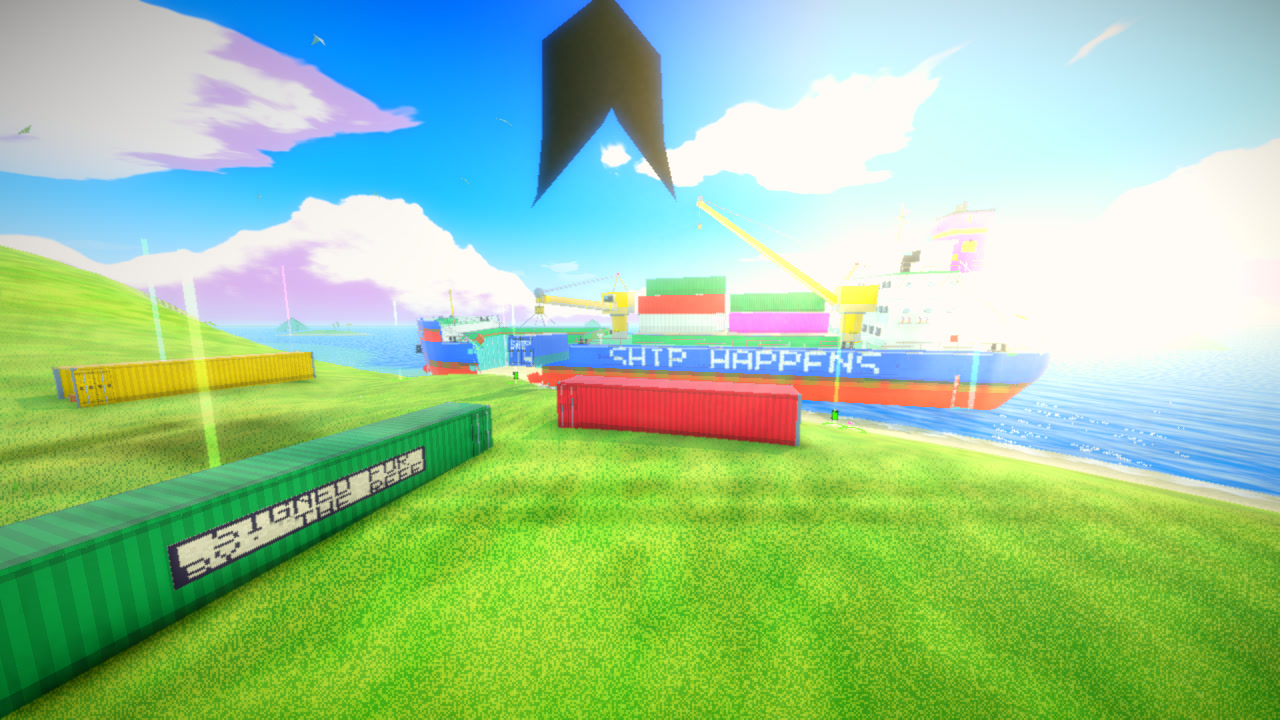
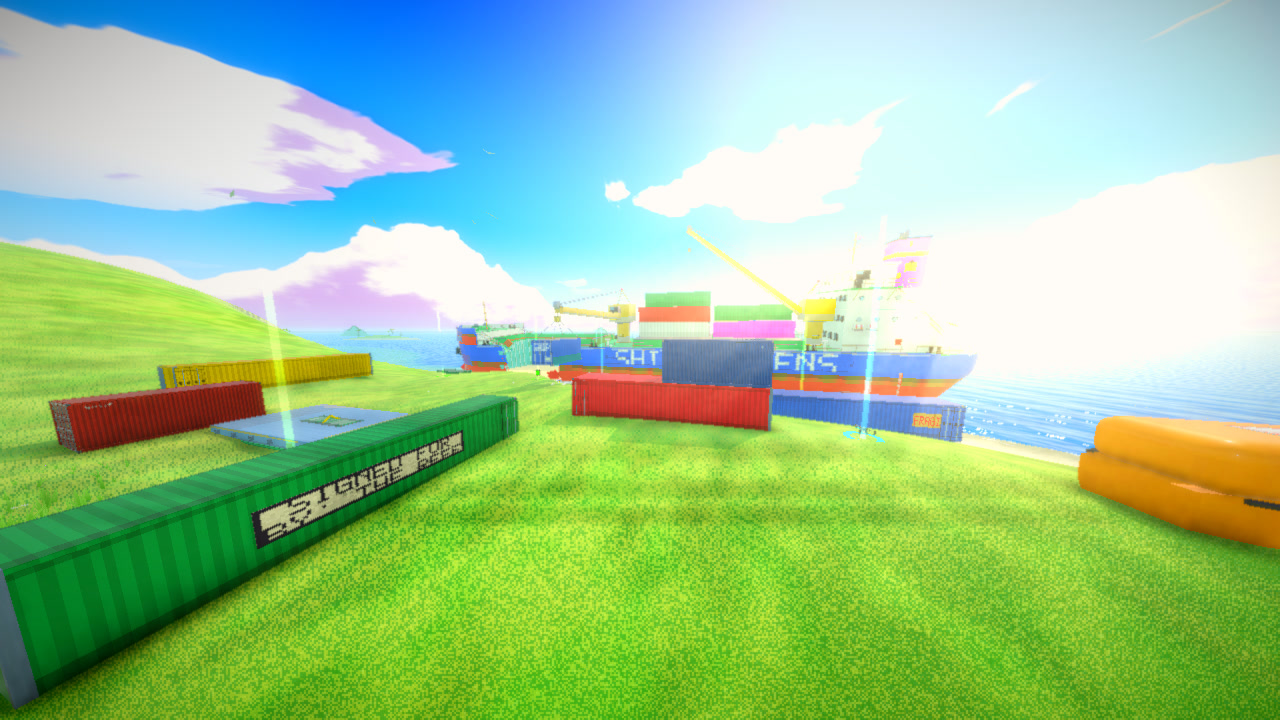
Battle Island: no more grass growing inside the props
The island's grass tufts and flowers no longer grow inside solid things on the ground: the crusher, tyre piles,
targets and berm at Scrap Mart, the containers and the lifeboat on Return to Sender's beach, crates and walls. When
the map loads, bilife marks every metre of ground that a solid box near the ground sits on (roofs, canopies and
treetops up in the air don't count) and skips those spots. Measured in a match: 148 tufts and 13 flowers inside
Scrap Mart's yard props and 80 tufts inside the beached boxes before, none after.

Also re-shot Return to Sender's pictures without the screenshot bot's own drop umbrella (it showed as a black V).

Claude-Session: https://claude.ai/code/session_011tKQCpckh8Yp721trE2hLz

diff --git a/public/js/bilife.js b/public/js/bilife.js
@@ -110,6 +110,20 @@ function build() {
   return grp;
 }
 
+// the ground under anything solid (containers, the lifeboat, crates, walls): no grass growing up through it. one flag per
+// terrain cell (1 m), a few cm of margin; roofs, canopies and treetops high over the ground don't count
+function propCells(T) {
+  const blk = new Uint8Array(T.nx * T.nz), m = 0.2;
+  for (const b of BOXES) {
+    if (b.ter || !b.min || (b.max[0] - b.min[0]) * (b.max[2] - b.min[2]) > 4000) continue;
+    let gt = -Infinity; for (const [x, z] of [[b.min[0], b.min[2]], [b.max[0], b.min[2]], [b.min[0], b.max[2]], [b.max[0], b.max[2]]]) { const g = T.at(x, z); if (g != null) gt = Math.max(gt, g); }
+    if (b.min[1] > gt + 0.6) continue; // (up in the air)
+    const i0 = Math.max(0, Math.floor(b.min[0] - m - T.x0)), i1 = Math.min(T.nx - 1, Math.floor(b.max[0] + m - T.x0)), j0 = Math.max(0, Math.floor(b.min[2] - m - T.z0)), j1 = Math.min(T.nz - 1, Math.floor(b.max[2] + m - T.z0));
+    for (let i = i0; i <= i1; i++) for (let j = j0; j <= j1; j++) blk[i * T.nz + j] = 1;
+  }
+  return blk;
+}
+
 // where the gulls circle and the boats float: over the beaches, out on the sea
 function placeLife(def) {
   const T = BOXES.terrain, sea = def.seaY ?? -0.25, rnd = ((s) => () => (s = (s * 16807) % 2147483647) / 2147483647)(1234);
@@ -117,6 +131,7 @@ function placeLife(def) {
   // kept clear of grass and flowers (the map session's ask): the mechs' drop pads, and the towns' flat ground
   const R = def.royale || {};
   S.clear = [...(R.drops || []).map((d) => [d[0], d[2], (d[3] || 8) + 1.5]), ...(R.pois || []).map((p) => [p.c[0], p.c[1], (p.flat || p.r || 0) * 0.85])];
+  S.block = T ? propCells(T) : null;
   for (let tries = 0; tries < 4000 && (S.flocks.length < 3 || S.boatList.length < BI_LIFE.boats); tries++) {
     const a = rnd() * Math.PI * 2, r = 200 + rnd() * 260, x = Math.cos(a) * r * 1.2, z = Math.sin(a) * r, g = T ? T.at(x, z) : null;
     if (S.flocks.length < 3 && g != null && g > sea - 0.5 && g < sea + 2) S.flocks.push({ x, z, y: 22 + rnd() * 18, r: 18 + rnd() * 20, w: (rnd() < 0.5 ? -1 : 1) * (0.12 + rnd() * 0.1), n: 9 });
@@ -140,6 +155,7 @@ function layField(cx, cz) {
     if (clr.length && clr.some((k) => (x - k[0]) * (x - k[0]) + (z - k[1]) * (z - k[1]) < k[2] * k[2])) continue;
     const ti = Math.floor(x - T.x0), tj = Math.floor(z - T.z0);
     if (ti < 1 || tj < 1 || ti >= T.nx - 1 || tj >= T.nz - 1 || !T.ok[ti * T.nz + tj] || !gi.has(T.paint[ti * T.nz + tj])) continue;
+    if (S.block && S.block[ti * T.nz + tj]) continue; // (under a prop)
     const y = T.at(x, z); if (y == null || y < sea + 0.25) continue;
     const sl = Math.abs(T.H[(ti + 1) * vz + tj] - T.H[(ti - 1) * vz + tj]) + Math.abs(T.H[ti * vz + tj + 1] - T.H[ti * vz + tj - 1]);
     if (sl > 1.4) continue; // (steep: that's rock)
